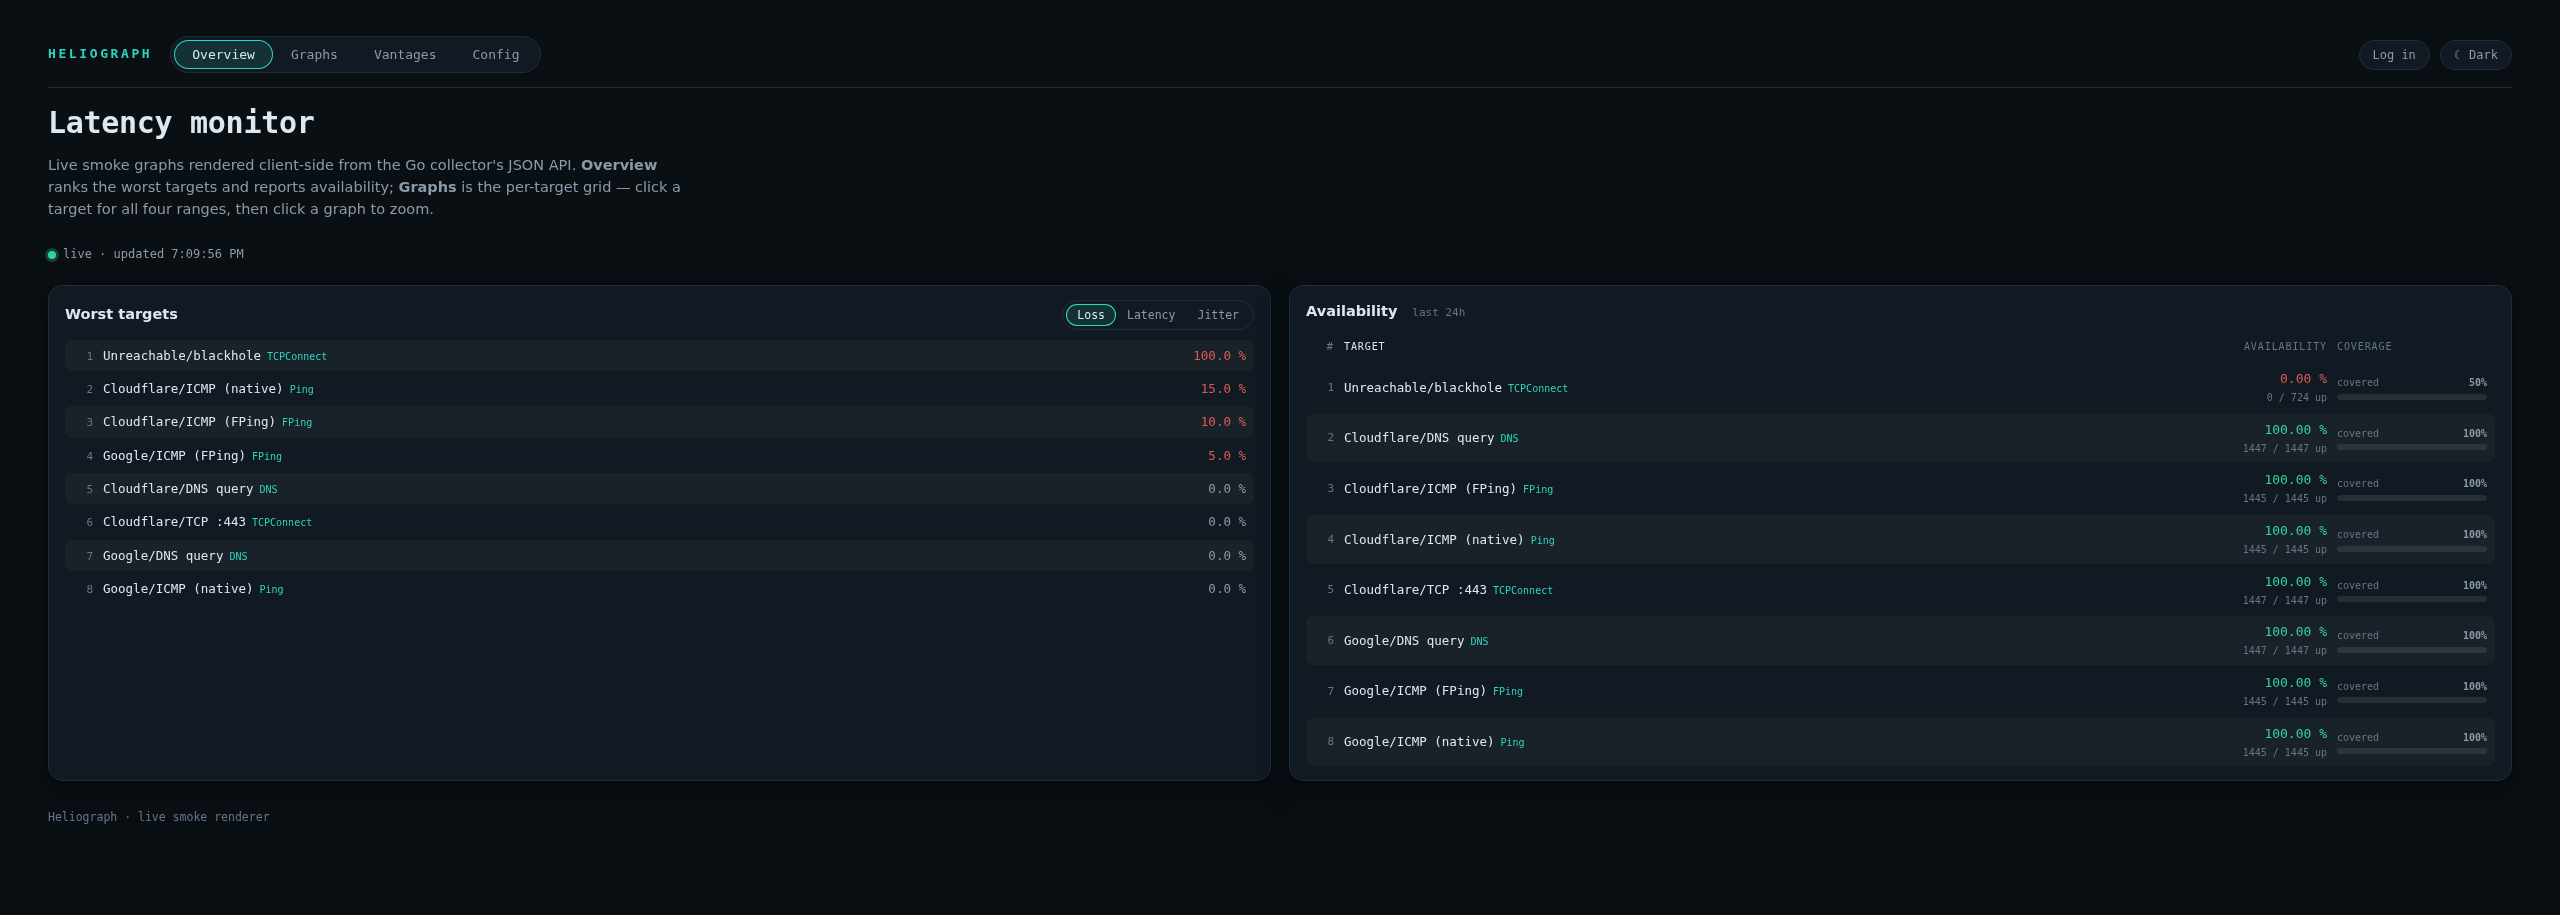
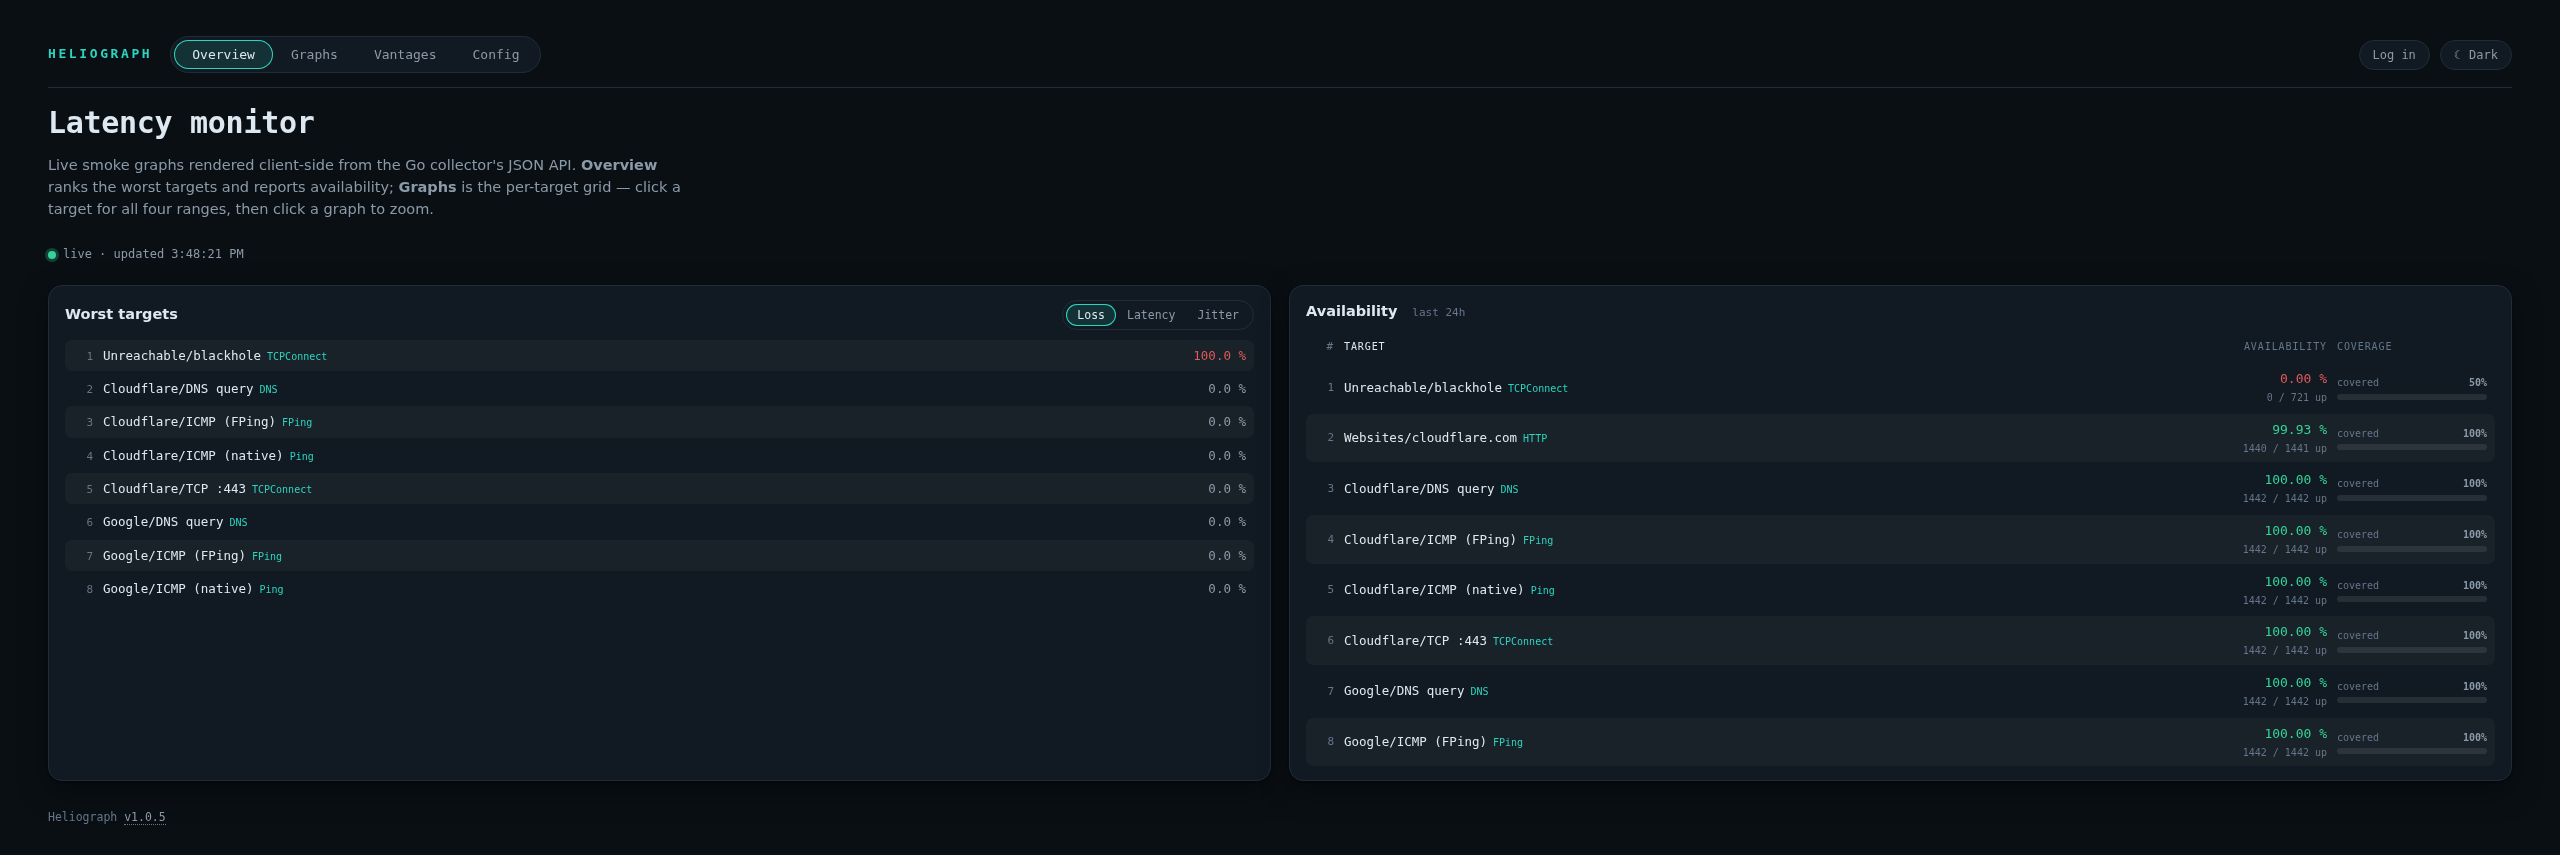
docs: refresh README screenshots from the v1.0.5 UI + cut v1.0.6 (#78)
Regenerate the four dashboard screenshots (Overview, Graphs, Config, Vantages) at
2560px dark from the current UI: they now show absolute clock-time axes, the
one-column picker option, and the linked version footer instead of the earlier
interim UI (closes the review's last open finding). Add docs/img/README.md with the
repeatable capture recipe.

Promote [Unreleased] to [1.0.6] (2026-08-19) covering #75-#77 + this screenshot
refresh, and refresh the compare links.

diff --git a/docs/img/README.md b/docs/img/README.md
@@ -1,0 +1,55 @@
+# README screenshots — how to regenerate
+
+The dashboard screenshots in the project README are captured at **2560px wide, dark theme,
+device-pixel-ratio 1**, then cropped down to the footer so each ends just below
+`Heliograph <version>`. Regenerate them from the **released tree** whenever the dashboard UI
+changes materially, so the README always shows the current default behaviour.
+
+| File | Tab | Source |
+|------|-----|--------|
+| `dashboard-overview-dark.png` | Overview | any running collector with demo data |
+| `dashboard-graphs-dark.png` | Graphs → All targets | same |
+| `config-tree-dark.png` | Config (admin) | a seeded local instance (below) |
+| `vantages-dark.png` | Vantages (admin) | same |
+| `smoke-graph-dark.png` | — | static demo from `web/smoke-poc.html` (regenerate only if that page changes) |
+
+## Overview + Graphs
+
+These need only live demo data, so the public site works:
+
+1. Browser viewport `2560×1300`, dark theme (`data-theme=dark`).
+2. Load the Overview (`/`) and the Graphs grid (`/#graphs`, "All targets"); wait for panels to paint.
+3. Full-page screenshot, then crop to the footer's bottom:
+   `magick raw.png -crop 2560x<footerBottom+~25>+0+0 +repage docs/img/<name>.png`
+
+## Config + Vantages (admin, seeded local instance)
+
+The Config tree and Vantages table require the admin API, a base `-config`, and DB-backed
+targets, so seed a throwaway instance:
+
+```sh
+# 1. throwaway TimescaleDB
+docker run -d --name heli-shot-db -e POSTGRES_DB=smoke -e POSTGRES_USER=smoke \
+  -e POSTGRES_PASSWORD=smoke -p 15499:5432 timescale/timescaledb:2.29.1-pg16
+DSN="postgres://smoke:smoke@localhost:15499/smoke?sslmode=disable"
+
+# 2. import the demo targets as a DB fragment (targets: -> children: only; no globals),
+#    and mint a few vantages for the Vantages table
+#    (the fragment is config.example.yaml's `targets:` subtree, rooted at `children:`)
+smoked config import demo-children.yaml -dsn "$DSN"
+for v in fra-edge lon-edge nyc-edge; do smoked vantage add "$v" -dsn "$DSN"; done
+
+# 3. serve with a GLOBALS-ONLY base config (database/probes/alerts + empty `targets.children`),
+#    so /api/admin/config is enabled and the DB fragment is the editable tree.
+#    Build with the version ldflag so the footer reads the real version, not "dev".
+go build -ldflags "-X main.version=vX.Y.Z" -o smoked ./cmd/smoked
+SMOKED_ADMIN_PASSWORD=demo1234 ./smoked -serve -addr :18099 -webdir web \
+  -config base-globals.yaml -dsn "$DSN" -resolve-ips
+```
+
+Then in the browser (fresh context so `/api/version` isn't cached from an earlier run):
+`POST /api/admin/login {"password":"demo1234"}`, reload `/#config` and `/#vantages`, confirm the
+footer reads the version, screenshot, crop as above. Finally `docker rm -f heli-shot-db`.
+
+**Note:** GitHub renders every README image at the ~838px content-column width regardless of
+intrinsic size, so 2560px only keeps them crisp — it does not make them render larger.

diff --git a/CHANGELOG.md b/CHANGELOG.md
@@ -6,6 +6,14 @@ All notable changes to **Heliograph** are recorded here. The format follows
 
 ## [Unreleased]
 
+## [1.0.6] - 2026-08-19
+
+Post-1.0.5 review follow-ups and CI reliability (#75–#77): the demo Compose stack honors
+`SMOKED_ABSOLUTE_TIME`, the browser-layout regression now gates image publication and can no longer
+false-pass, the Columns picker keeps an honest, screen-reader-legible selection when it wraps, and the
+web suite is locale-independent. CI gains per-job timeouts and retries so a stalled package mirror
+fails fast instead of hanging, and the README screenshots are refreshed to the shipped UI. Detail below.
+
 ### Fixed
 - **The bundled Compose stack now honors `SMOKED_ABSOLUTE_TIME`.** The collector service interpolates
   `${SMOKED_ABSOLUTE_TIME:-1}` instead of a hard-coded `1`, so setting the documented value in `.env`
@@ -34,6 +42,12 @@ All notable changes to **Heliograph** are recorded here. The format follows
   a wedged step fails fast instead of hanging to GitHub's 6-hour default, and the flaky network installs
   (`apt-get`, Playwright/Chromium) retry with backoff — turning an intermittent mirror stall into a
   brief wait rather than a manual cancel-and-rerun.
+
+### Docs
+- **README dashboard screenshots regenerated from the v1.0.5 UI.** The Overview, Graphs, Config, and
+  Vantages captures now show the shipped defaults — absolute clock-time axes, the one-column option, and
+  the linked version footer — instead of the earlier interim UI. `docs/img/README.md` records the
+  repeatable capture recipe so future refreshes stay consistent.
 
 ## [1.0.5] - 2026-08-19
 
@@ -1239,7 +1253,8 @@ the smoke-graph look, a fast/parallel poller, and probes as plugins.
 - Full re-implementation reference / code map maintained outside the repo at
   `~/.claude/plans/smokeping-codemap/`.
 
-[Unreleased]: https://github.com/seitzbg/heliograph/compare/v1.0.5...main
+[Unreleased]: https://github.com/seitzbg/heliograph/compare/v1.0.6...main
+[1.0.6]: https://github.com/seitzbg/heliograph/compare/v1.0.5...v1.0.6
 [1.0.5]: https://github.com/seitzbg/heliograph/compare/v1.0.4...v1.0.5
 [1.0.4]: https://github.com/seitzbg/heliograph/compare/v1.0.3...v1.0.4
 [1.0.3]: https://github.com/seitzbg/heliograph/compare/v1.0.2...v1.0.3
